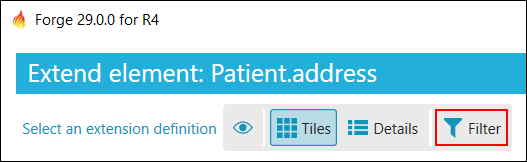
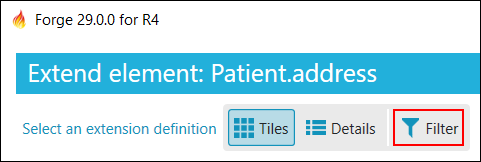
Update for UI style changes

diff --git a/features/CreateDerivedProfiles.md b/features/CreateDerivedProfiles.md
@@ -34,7 +34,7 @@ To do this in Forge you first need to add one or more Core Packages.
 The following example adds the **hl7.fhir.us.core** package to the project.
 Select the `Dependencies` tab, then click `Simplifier`, then type *hl7.fhir.us*
 in the **Search** field and finally click `Search`. Select **hl7.fhir.us.core**
-in the list and then select package version **4.1.0**. Finally click `Add` to
+in the list and then select package version **5.0.0**. Finally click `Add` to
 add the package to the project. 
 
 ![Add a core package](../images/DerivedAddPackage.png)
@@ -45,7 +45,7 @@ packages are installed too.
 ![Installed packages](../images/DerivedPackagesInstalled.png)
 
 To create a derived profile for the US Core Patient, open the package 
-**hl7.fhir.us.core#4.1.0** by selecting it from the list and clicking
+**hl7.fhir.us.core#5.0.0** by selecting it from the list and clicking
 `Open`. Then select **package** in the list and click `Open`. In the **Filter** toolbar
 select **Patient** as Structure Type to filter on.
 

diff --git a/ReleaseNotes.rst b/ReleaseNotes.rst
@@ -19,9 +19,9 @@ Changes
 
 Bug fixes
 ^^^^^^^^^
-* Improved message when trying to sign in with an unverified user account
-* Fixed various minor UI styling issues
-* Fixed Forge hanging sometimes when trying to synchronize with Simplifier
+* Improved message when trying to sign in with an unverified user account.
+* Fixed not being able to link a project folder with a Simplifier project when the project folder has subfolders with files in it.
+* Fixed various minor UI styling issues.
 * **[R4B-R5]** Added support for CI build version:
 
   - R4B - 4.3.0-cibuild

diff --git a/features/IntegrationwithSimplifier.md b/features/IntegrationwithSimplifier.md
@@ -30,8 +30,7 @@ to the Simplifier **Create project** page using one of the following options:
   - File menu
   - Start panel  
   - Session panel  
-* Click `Create...` in the Simplifier toolbar in the Project tab:  
-![Simplifier toolbar commands](../images/LinkToolbar.png)
+* Click `Create...` in the Simplifier toolbar in the Project tab.
 
 Enter you project details on Simplifier and click `Create`.
 
